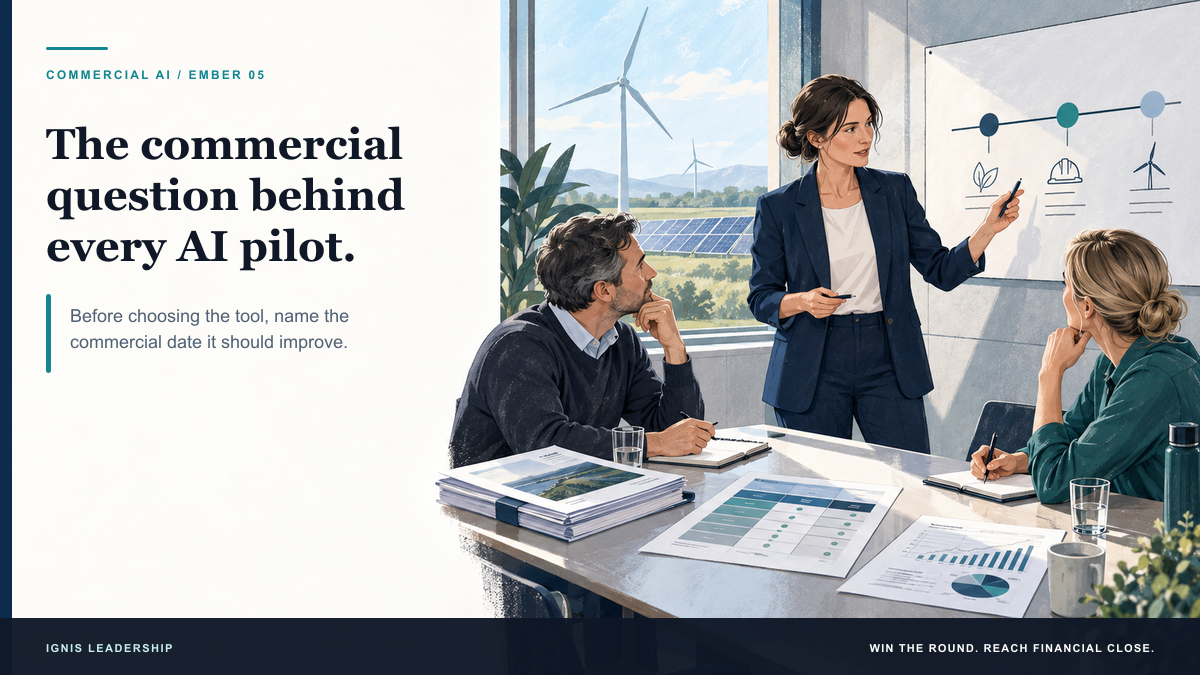
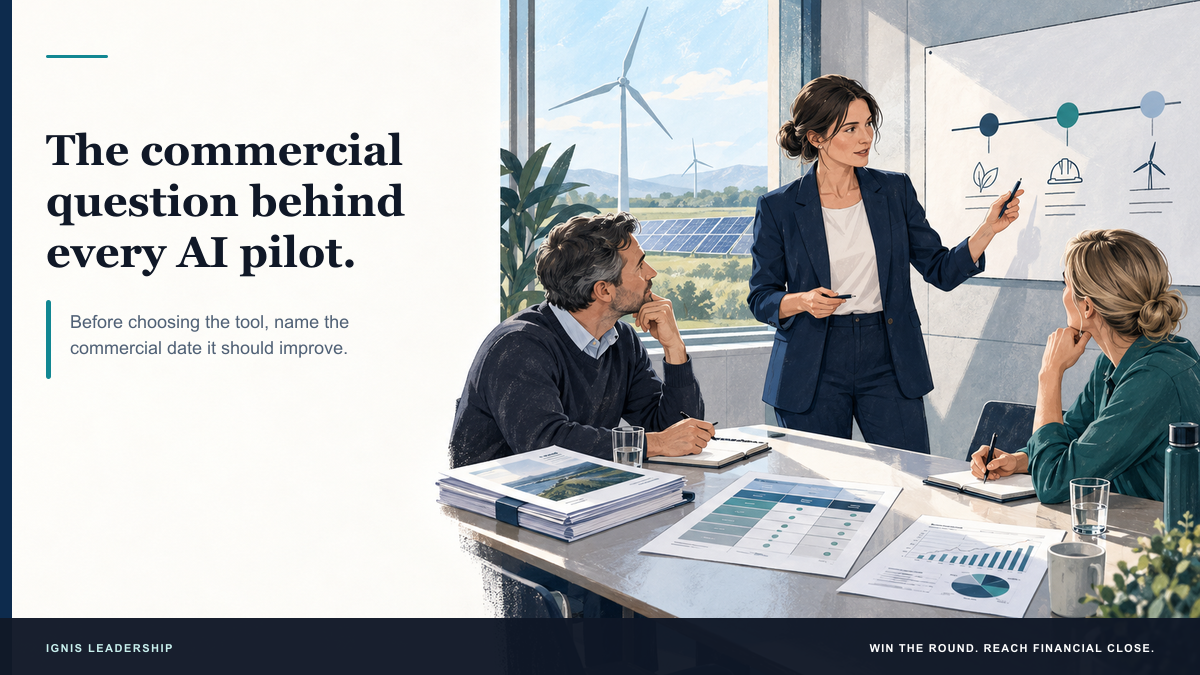
d

Changed region(s): [[0.0308, 0.1867, 0.3392, 0.4044], [0.0617, 0.4356, 0.3083, 0.5289], [0.0308, 0.0622, 0.2158, 0.1244]]

diff --git a/website_structure/assets/ai-roulette.css b/website_structure/assets/ai-roulette.css
@@ -25,33 +25,59 @@ body.ar-page{margin:0;background:var(--ar-black);color:var(--ar-white);font-fami
 .ar-page.ar-is-landing .ar-main{min-height:100svh;padding:clamp(2rem,5vw,4rem) 0 3rem;background:var(--ignis-mint,#b5e4e0);color:#102426}
 .ar-page.ar-is-landing .ar-mark{display:flex;justify-content:center;align-items:center;gap:.65rem;margin:0 0 clamp(1rem,2vw,1.5rem);font-size:1.15rem;font-weight:750}
 .ar-mark img{width:42px;height:42px;object-fit:contain;filter:invert(1)}
-.ar-landing{max-width:980px;margin:0 auto;text-align:center}
+.ar-landing{max-width:850px;margin:0 auto;text-align:center}
 .ar-landing-copy{display:flex;flex-direction:column;align-items:center}
 .ar-kicker,.ar-category-kicker{margin:0;color:#08645b;font-size:.82rem;font-weight:800;letter-spacing:.2em;text-transform:uppercase}
-.ar-landing h1{max-width:18ch;margin:1rem 0 0;font-size:clamp(2.65rem,5.3vw,5.3rem);font-weight:720;line-height:1.06;letter-spacing:-.055em;text-wrap:balance}
+.ar-landing h1{max-width:18ch;margin:1rem 0 0;font-size:clamp(2.65rem,5.3vw,5rem);font-weight:720;line-height:1.06;letter-spacing:-.055em;text-wrap:balance}
 .ar-landing h1 span{color:#08645b}
-.ar-lede{max-width:42ch;margin:1.2rem auto 0;font-size:clamp(1.2rem,2vw,1.7rem);font-weight:650;line-height:1.32;letter-spacing:-.025em;text-wrap:balance}
-.ar-support{grid-column:1/-1;max-width:58ch;margin:.1rem auto 1.1rem;color:#254143;font-size:clamp(.98rem,1.2vw,1.13rem);line-height:1.55}
+.ar-lede{max-width:42ch;margin:1.15rem auto 0;font-size:clamp(1.2rem,2vw,1.55rem);font-weight:600;line-height:1.38;letter-spacing:-.02em;text-wrap:balance}
 .ar-pack-line{max-width:55ch;margin:.8rem auto 0;color:#08645b;font-weight:750}
-.ar-score-tease{position:relative;isolation:isolate;display:flex;justify-content:center;align-items:center;width:148px;height:148px;margin:1.3rem auto .5rem;border-radius:50%;background:conic-gradient(#08645b 0 15%,transparent 15% 16.67%,#138476 16.67% 31.67%,transparent 31.67% 33.33%,#1cbdad 33.33% 48.33%,transparent 48.33% 50%,#08645b 50% 65%,transparent 65% 66.67%,#138476 66.67% 81.67%,transparent 81.67% 83.33%,#1cbdad 83.33% 98.33%,transparent 98.33%);color:#102426;white-space:nowrap}
-.ar-score-tease::before{content:"";position:absolute;inset:13px;z-index:-1;border-radius:50%;background:var(--ignis-mint,#b5e4e0)}
-.ar-score-tease span{font-family:var(--ar-display);font-size:3.5rem;line-height:1}
-.ar-score-tease small{font-size:.8rem;font-weight:800}
-.ar-score-caption{margin:0;color:#31565a;font-size:.73rem;font-weight:750;letter-spacing:.07em;text-transform:uppercase}
+.ar-score-tease{position:relative;width:min(100%,240px);height:145px;margin:1.7rem auto 0;color:#102426}
+.ar-score-tease svg{display:block;width:100%;height:100%;overflow:visible}
+.ar-score-tease path{fill:none;stroke-width:11;stroke-linecap:round}
+.ar-gauge-track{stroke:#7cb9b3}
+.ar-gauge-fill{stroke:#08645b;stroke-dasharray:var(--sample-score,62) 100;animation:ar-gauge-draw 1.5s ease-out both}
+@keyframes ar-gauge-draw{from{stroke-dasharray:0 100}to{stroke-dasharray:var(--sample-score,62) 100}}
+.ar-gauge-value{position:absolute;inset:55px 0 0;display:flex;justify-content:center;align-items:baseline;align-content:center;flex-wrap:wrap;white-space:nowrap}
+.ar-gauge-value strong{font-family:var(--ar-display);font-size:3.7rem;font-weight:400;line-height:1}
+.ar-gauge-value small{font-size:.85rem;font-weight:800}
+.ar-gauge-value em{flex-basis:100%;font-size:.7rem;font-style:normal;font-weight:800;letter-spacing:.17em;text-transform:uppercase}
+.ar-score-caption{margin:.2rem 0 0;color:#31565a;font-size:.73rem;font-weight:750;letter-spacing:.04em;text-transform:uppercase}
+.ar-result-promise{max-width:40ch;margin:1.3rem auto 0;font-size:clamp(1.2rem,2vw,1.5rem);font-weight:750;line-height:1.3;text-wrap:balance}
 .ar-button,.ar-outline{display:inline-flex;justify-content:center;align-items:center;gap:.7rem;min-height:52px;padding:.85rem 1.35rem;border:1px solid var(--ar-green);border-radius:2px;background:var(--ar-green);color:#071917;text-decoration:none;font-size:.85rem;font-weight:800;letter-spacing:.06em;text-transform:uppercase;transition:background .18s,transform .18s}
 .ar-button:hover:not(:disabled){background:var(--ar-green-hover);border-color:var(--ar-green-hover)}
 .ar-button:active{transform:scale(.98)}
 .ar-outline{background:transparent;color:var(--ar-white)}
-.ar-start{margin-top:1.6rem}
+.ar-start{min-width:280px;margin-top:1.5rem;background:#102426;border-color:#102426;color:#fff}
+.ar-start:hover:not(:disabled){background:#08645b;border-color:#08645b}
 .ar-fineprint{margin:.95rem 0 0;color:#31565a;font-size:.77rem;font-weight:750;letter-spacing:.02em}
-.ar-landing-visual{display:grid;grid-template-columns:repeat(3,1fr);margin:clamp(2rem,5vw,3.5rem) auto 0;border-top:1px solid #5c9893}
-.ar-visual-kicker{grid-column:1/-1;margin:1.2rem 0;color:#08645b;font-size:.75rem;font-weight:800;letter-spacing:.18em;text-transform:uppercase}
-.ar-landing-outcome{padding:1.2rem 1rem;border-top:1px solid #8dbab6;border-left:1px solid #8dbab6}
+.ar-landing-visual{display:grid;grid-template-columns:repeat(3,1fr);width:100%;margin:1.5rem auto 0;border-top:1px solid #5c9893}
+.ar-visual-kicker{grid-column:1/-1;margin:1rem 0;color:#08645b;font-size:.75rem;font-weight:800;letter-spacing:.18em;text-transform:uppercase}
+.ar-landing-outcome{padding:1rem .85rem;border-top:1px solid #8dbab6;border-left:1px solid #8dbab6}
 .ar-landing-outcome:nth-of-type(1){border-left:0}
-.ar-landing-outcome span{display:block;margin-bottom:.6rem;color:#08645b;font-family:var(--ar-display);font-size:1.1rem}
-.ar-landing-outcome p{max-width:26ch;margin:auto;font-size:1rem;font-weight:750;line-height:1.4}
-.ar-perspective{display:flex;justify-content:center;gap:2rem;max-width:740px;margin:1rem auto 0;color:#254143;font-size:.88rem;line-height:1.4}
+.ar-landing-outcome span{display:block;margin-bottom:.45rem;color:#08645b;font-family:var(--ar-display);font-size:1.1rem}
+.ar-landing-outcome p{max-width:26ch;margin:auto;font-size:.96rem;font-weight:700;line-height:1.38}
+.ar-audience{width:100%;margin:1.35rem auto 0}
+.ar-audience .ar-visual-kicker{margin:0 0 .7rem}
+.ar-perspective{display:flex;flex-direction:column;align-items:center;gap:.3rem;max-width:740px;margin:0 auto;color:#254143;font-size:clamp(.96rem,1.5vw,1.1rem);line-height:1.45}
 .ar-perspective strong{color:#102426}
+.ar-perspective b{padding-inline:.2rem;color:#08645b}
+.ar-sector-strip{display:flex;justify-content:center;gap:clamp(.9rem,5vw,3.5rem);width:100%;margin:2.25rem auto 0;padding-top:1.15rem;border-top:1px solid #75aaa5}
+.ar-sector-strip>div{display:grid;justify-items:center;gap:.3rem;min-width:70px;color:#31565a;font-size:.7rem;font-weight:800;letter-spacing:.08em;text-transform:uppercase}
+.ar-sector-strip svg{width:48px;height:48px;fill:none;stroke:#08645b;stroke-width:2;stroke-linecap:round;stroke-linejoin:round}
+@media(min-width:701px){
+  .ar-page.ar-is-landing .ar-main{padding-top:2rem}
+  .ar-page.ar-is-landing .ar-mark{margin-bottom:.6rem}
+  .ar-landing h1{margin-top:.65rem;font-size:clamp(3.5rem,5vw,4.5rem)}
+  .ar-lede{margin-top:.7rem}
+  .ar-score-tease{margin-top:.75rem}
+  .ar-result-promise{margin-top:.65rem}
+  .ar-landing-visual{margin-top:.75rem}
+  .ar-visual-kicker{margin:.55rem 0}
+  .ar-landing-outcome{padding:.55rem .85rem}
+  .ar-audience{margin-top:.7rem}
+  .ar-start{margin-top:.75rem}
+}
 .ar-app{min-height:75svh}
 .ar-top-bar{display:flex;justify-content:space-between;gap:1rem;width:100%;margin:0 0 clamp(2rem,5vw,4rem)}
 .ar-back,.ar-text-button{padding:.35rem 0;border:0;background:transparent;color:#d3e8e5;text-decoration:underline;text-underline-offset:.25em}
@@ -158,7 +184,10 @@ body.ar-page{margin:0;background:var(--ar-black);color:var(--ar-white);font-fami
   .ar-landing-outcome{display:grid;grid-template-columns:2.2rem 1fr;align-items:center;gap:.7rem;border-left:0;text-align:left}
   .ar-landing-outcome span{margin:0}
   .ar-landing-outcome p{max-width:none;margin:0}
-  .ar-perspective{flex-direction:column;gap:.25rem}
+  .ar-perspective{gap:.25rem}
+  .ar-sector-strip{gap:.45rem}
+  .ar-sector-strip>div{min-width:62px}
+  .ar-sector-strip svg{width:40px;height:40px}
   .ar-tap h2{font-size:clamp(1.75rem,6.5vw,2.5rem)}
   .ar-pause h2{font-size:clamp(2.5rem,9vw,4rem)}
   .ar-stack-item{min-height:clamp(340px,55svh,490px)}
@@ -174,9 +203,10 @@ body.ar-page{margin:0;background:var(--ar-black);color:var(--ar-white);font-fami
   .ar-landing h1{margin-top:.6rem;font-size:2.45rem}
   .ar-lede{margin-top:.8rem;font-size:1.15rem}
   .ar-perspective{margin-top:.7rem}
-  .ar-score-tease{width:116px;height:116px;margin:.8rem auto .4rem}
-  .ar-score-tease::before{inset:10px}
-  .ar-score-tease span{font-size:2.8rem}
+  .ar-score-tease{width:200px;height:121px;margin:1rem auto 0}
+  .ar-gauge-value{inset:46px 0 0}
+  .ar-gauge-value strong{font-size:3rem}
+  .ar-result-promise{margin-top:1rem}
   .ar-start{margin-top:1rem}
   .ar-dot{min-width:40px;min-height:40px}
   .ar-dot span{width:30px;height:30px}
@@ -185,4 +215,5 @@ body.ar-page{margin:0;background:var(--ar-black);color:var(--ar-white);font-fami
 @media(prefers-reduced-motion:reduce){
   html{scroll-behavior:auto}
   .ar-stack-item,.ar-dot span,.ar-button,.ar-seg::before{transition:none}
+  .ar-gauge-fill{animation:none}
 }

diff --git a/website_structure/ai-roulette.html b/website_structure/ai-roulette.html
@@ -13,7 +13,7 @@
   <link rel="preconnect" href="https://fonts.googleapis.com"><link rel="preconnect" href="https://fonts.gstatic.com" crossorigin>
   <link rel="stylesheet" href="https://fonts.googleapis.com/css2?family=Anton&display=swap">
   <link rel="stylesheet" href="/assets/site-chrome.css?v=40">
-  <link rel="stylesheet" href="/assets/ai-roulette.css?v=16">
+  <link rel="stylesheet" href="/assets/ai-roulette.css?v=17">
   <meta property="og:locale" content="en_GB">
   <meta name="twitter:title" content="AI Roulette | Is AI moving your work forward? | Ignis">
   <meta name="twitter:description" content="Get an indicative score, see your biggest commercial AI gap and leave with one practical next move. Instant result; no sign-up or email required.">
@@ -33,26 +33,36 @@
           <h1 id="ar-title">Is AI moving your work forward?</h1>
           <p class="ar-lede">Get an indicative score, see your biggest gap, and leave with one practical move to make next.</p>
           <p class="ar-pack-line" hidden></p>
-          <p class="ar-perspective"><span><strong>Lead the business?</strong> See where to focus.</span><span><strong>Run the work?</strong> See where to start.</span></p>
-          <div class="ar-score-tease" aria-label="Example AI Roulette score: 62 out of 100">
-            <span>62</span><small>/100</small>
+          <div class="ar-score-tease" role="img" aria-label="Example AI Roulette score: 62 out of 100">
+            <svg viewBox="0 0 240 145" aria-hidden="true" focusable="false"><path class="ar-gauge-track" d="M 20 120 A 100 100 0 0 1 220 120" pathLength="100"/><path class="ar-gauge-fill" d="M 20 120 A 100 100 0 0 1 220 120" pathLength="100"/></svg>
+            <span class="ar-gauge-value"><strong data-sample-score>62</strong><small>/100</small><em>Sample score</em></span>
           </div>
-          <p class="ar-score-caption">Example score · Your result is indicative, not a benchmark</p>
+          <p class="ar-score-caption">Indicative result, not a benchmark</p>
+          <p class="ar-result-promise">Your result identifies your lowest-scoring AI lever—and a practical place to start.</p>
+          <div class="ar-landing-visual" aria-label="What your result includes">
+            <p class="ar-visual-kicker">What you'll get</p>
+            <div class="ar-landing-outcome"><span aria-hidden="true">01</span><p>Your indicative score and lowest-scoring AI lever</p></div>
+            <div class="ar-landing-outcome"><span aria-hidden="true">02</span><p>Time, delay and missed-value ranges from your estimates</p></div>
+            <div class="ar-landing-outcome"><span aria-hidden="true">03</span><p>One practical move to make in the next 30 days</p></div>
+          </div>
+          <div class="ar-audience">
+            <p class="ar-visual-kicker">Who it’s for</p>
+            <p class="ar-perspective"><span><strong>Lead the business <b aria-hidden="true">→</b></strong> See where to focus.</span><span><strong>Run the work <b aria-hidden="true">→</b></strong> See where to start.</span></p>
+          </div>
           <button class="ar-button ar-start" type="button" data-start>Start the assessment <span aria-hidden="true">→</span></button>
           <p class="ar-fineprint">Around 5 minutes · Instant, indicative result · No sign-up or email required</p>
-        </div>
-        <div class="ar-landing-visual" aria-label="What your result includes">
-          <p class="ar-visual-kicker">What you'll get</p>
-          <p class="ar-support">Answer for the commercial work you know. Your result shows where AI is helping, where it needs attention, and what your own estimates suggest is at stake.</p>
-          <div class="ar-landing-outcome"><span aria-hidden="true">01</span><p>Your indicative score and lowest-scoring AI lever</p></div>
-          <div class="ar-landing-outcome"><span aria-hidden="true">02</span><p>Time, delay and missed-value ranges from your estimates</p></div>
-          <div class="ar-landing-outcome"><span aria-hidden="true">03</span><p>One practical move to make in the next 30 days</p></div>
+          <div class="ar-sector-strip" aria-label="Work across wind, solar, storage and grid projects">
+            <div><svg viewBox="0 0 64 64" aria-hidden="true"><circle cx="32" cy="23" r="3"/><path d="M32 26v31M32 20 32 5M29 23 13 34M35 23 50 34M25 57h14"/></svg><span>Wind</span></div>
+            <div><svg viewBox="0 0 64 64" aria-hidden="true"><path d="M13 43h38l-5-22H18l-5 22ZM17 34h30M27 21l-2 22M37 21l2 22M24 43l-3 12M40 43l3 12M18 55h28"/><circle cx="48" cy="12" r="5"/></svg><span>Solar</span></div>
+            <div><svg viewBox="0 0 64 64" aria-hidden="true"><rect x="12" y="17" width="40" height="36" rx="2"/><path d="M25 17v-5h14v5M20 28h24M20 37h24M20 46h24M32 25v24"/></svg><span>Storage</span></div>
+            <div><svg viewBox="0 0 64 64" aria-hidden="true"><path d="M30 6h4l11 51H19L30 6ZM23 22h18M19 37h26M15 12h34M13 18h38M32 6v51M19 57h26"/></svg><span>Grid</span></div>
+          </div>
         </div>
       </section>
       <div id="ar-app" class="ar-app" aria-live="polite" hidden><p>Loading the assessment…</p></div>
     </div>
   </main>
   <footer class="ar-footer"><div class="ar-shell ar-footer-inner"><span>© 2026 Ignis Leadership</span><nav aria-label="Footer navigation"><a href="/">Home</a><a href="/commercial-ai-adoption">Commercial AI adoption</a><a href="/commercial-transformation">Commercial transformation</a><a href="/privacy">Privacy</a><a href="/contact">Contact</a></nav></div></footer>
-  <script type="module" src="/assets/ai-roulette.js?v=15"></script>
+  <script type="module" src="/assets/ai-roulette.js?v=16"></script>
 </body>
 </html>

diff --git a/website_structure/assets/ai-roulette.js b/website_structure/assets/ai-roulette.js
@@ -269,8 +269,23 @@ function selectGap(id,value){
 function updateLanding(){
   const pack=bank.meta.packs.find(item=>item.id===state.pack);
   landing.querySelector(".ar-lede").textContent=bank.copy.landing.sub;
-  landing.querySelector(".ar-support").textContent=bank.copy.landing.support;
-  landing.querySelector(".ar-score-tease span").textContent=bank.copy.landing.example.score;
+  landing.querySelector(".ar-result-promise").textContent=bank.copy.landing.promise;
+  const sampleScore=Number(bank.copy.landing.example.score);
+  const scoreNumber=landing.querySelector("[data-sample-score]");
+  const gauge=landing.querySelector(".ar-score-tease");
+  gauge.setAttribute("aria-label",`Example AI Roulette score: ${sampleScore} out of 100`);
+  gauge.style.setProperty("--sample-score",sampleScore);
+  if(reduced.matches){scoreNumber.textContent=sampleScore}else{
+    scoreNumber.textContent="0";
+    let startTime;
+    const count=now=>{
+      startTime??=now;
+      const progress=Math.min((now-startTime)/1500,1);
+      scoreNumber.textContent=Math.round(sampleScore*(1-(1-progress)**3));
+      if(progress<1)requestAnimationFrame(count);
+    };
+    requestAnimationFrame(count);
+  }
   landing.querySelector(".ar-score-caption").textContent=bank.copy.landing.example.caption;
   landing.querySelector(".ar-fineprint").textContent=bank.copy.landing.fine;
   landing.querySelectorAll(".ar-landing-outcome p").forEach((node,i)=>node.textContent=bank.copy.landing.outcomes[i]);
